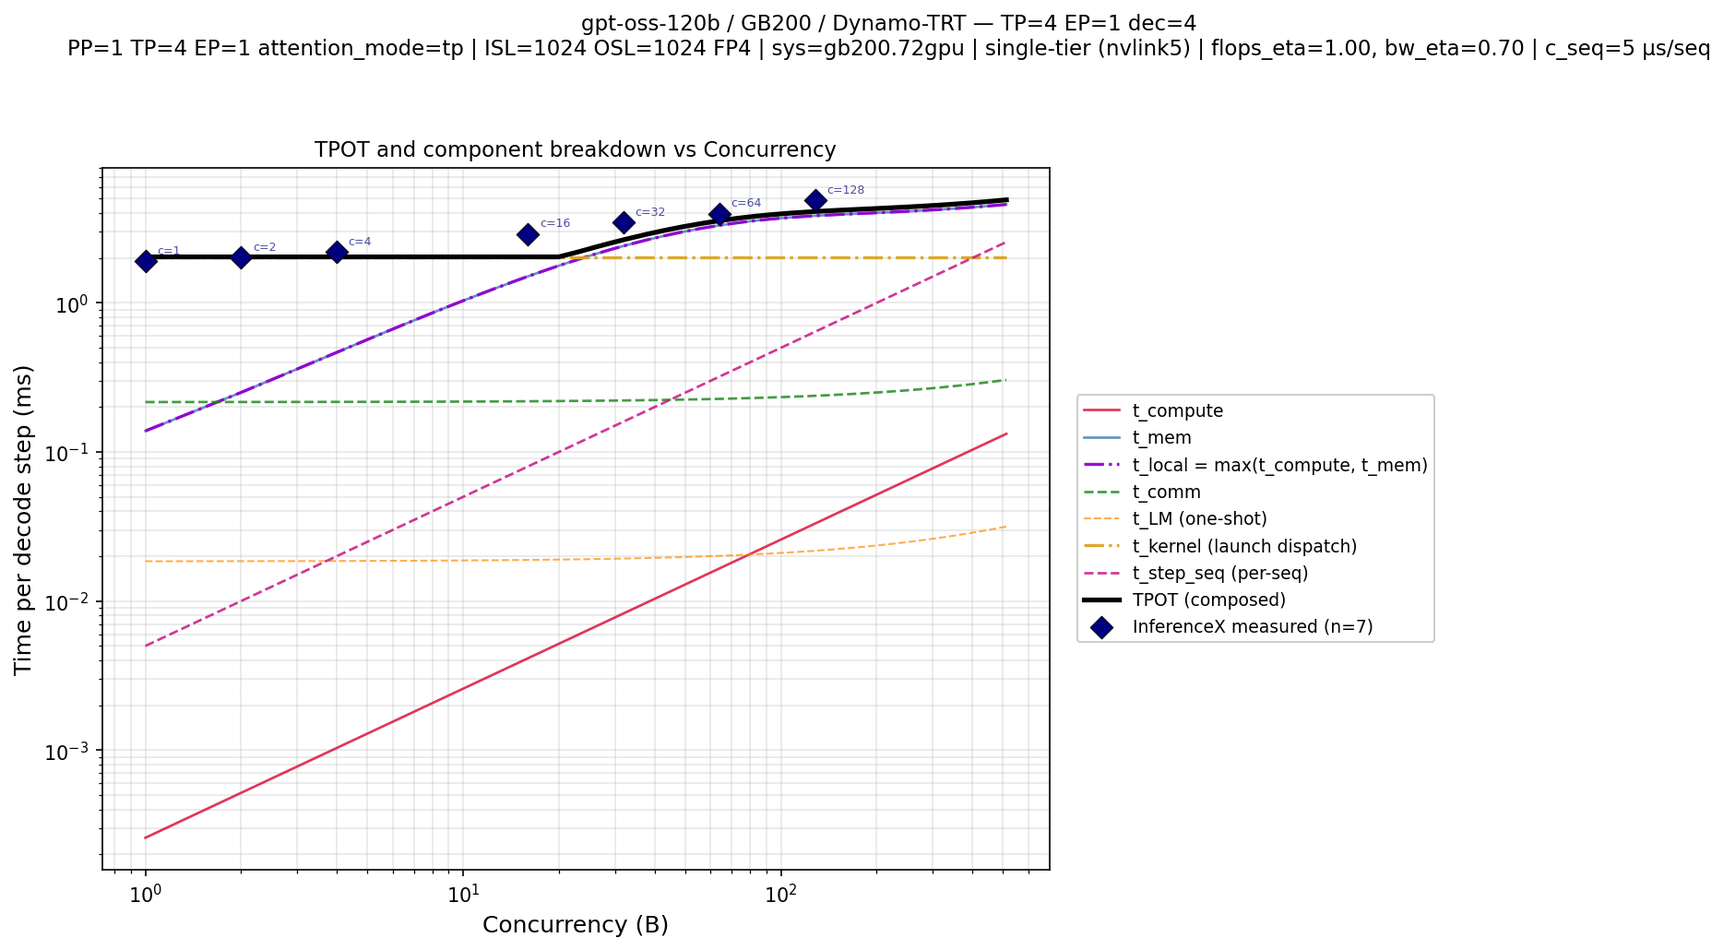
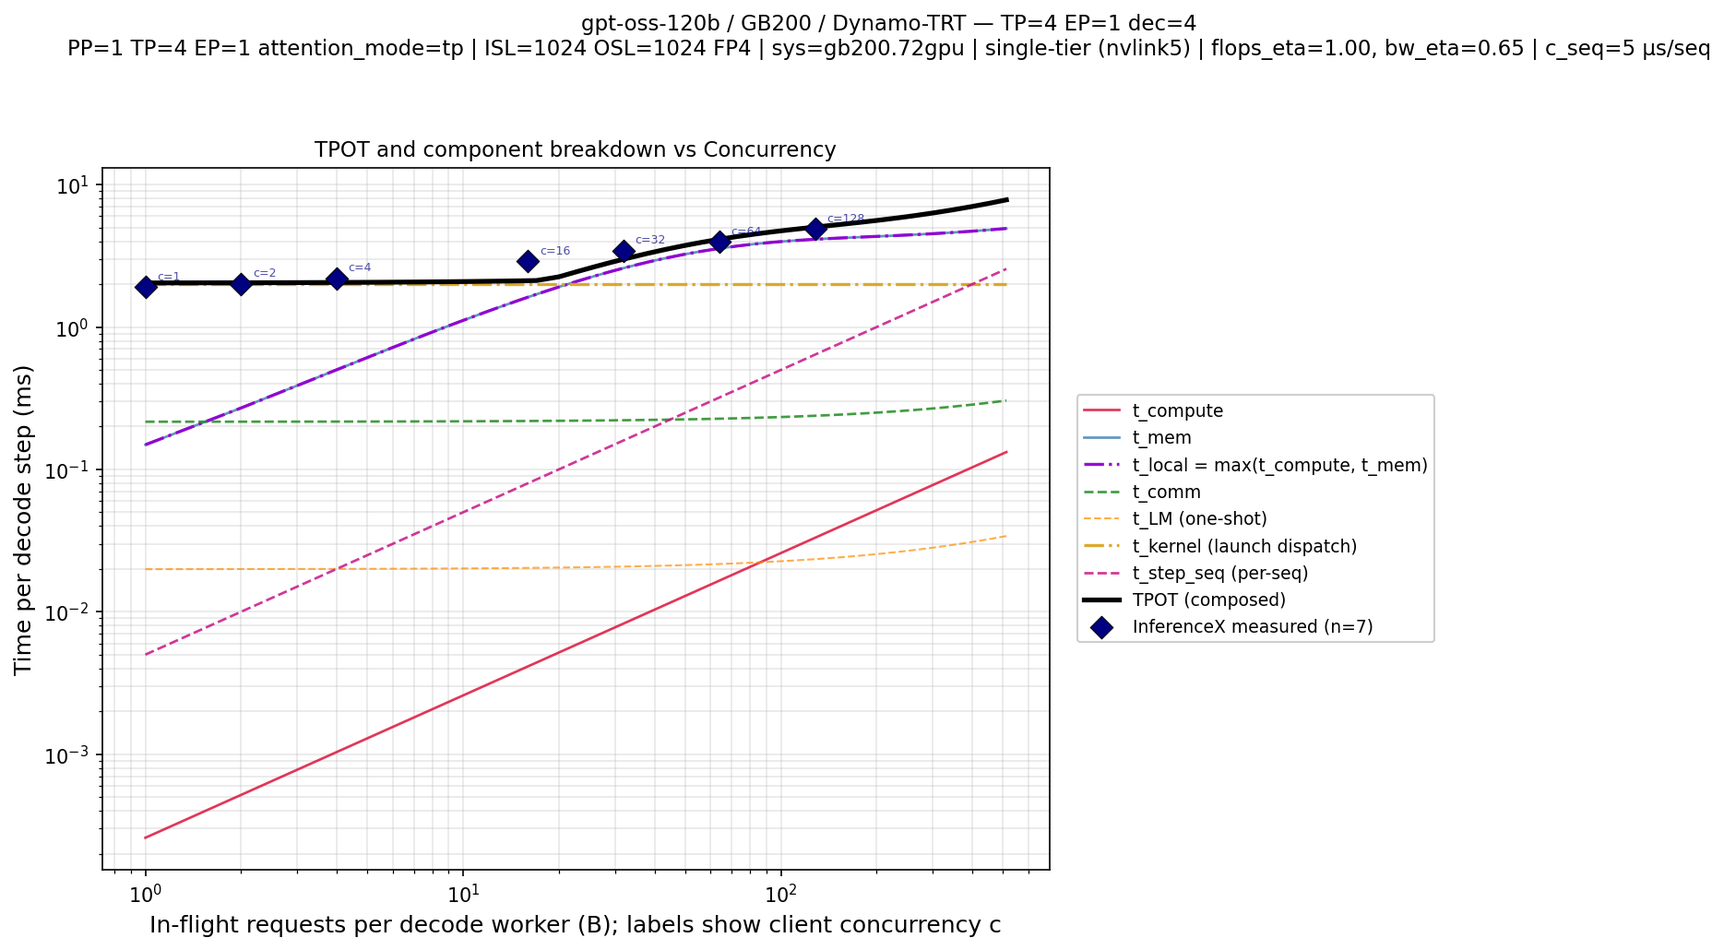
fix(validate): use the per-worker batch; fit an additive host floor instead of drifting bw_eta
Batch. The harness fed the measured client concurrency straight into the
model as the batch of one replica. A cut with several decode workers
(the DeepSeek-R1 co-located cut runs four) therefore ran at four times
its real batch. load_measured now divides conc by decode_num_workers and
keeps both.

Host cost. Fitted per TP shape, bw_eta fell steadily as TP grew. The
cause is host-side work that does not shrink with TP: with the default
full overlap it is hidden behind the GPU step whenever the step is long,
so the bandwidth knob absorbed it. With host work additive
(seq_overlap_factor = 0) and a per-step floor c_orch, one bandwidth
value fits every TP shape. run_framework / predict_at / the common CLI
gain c_orch_us.

Published drivers, recalibrated: gpt-oss-120b 13.6% -> 9.0% (bw_eta
0.65, no floor); DeepSeek-R1 co-located 8.7% over 14 points (bw_eta
0.75, 2.5 ms floor) where the old constants give 29% once the batch is
right; the driver's eight DeepSeek-R1 cuts together 33.8% -> 15.1% with
no per-cut refit. Plots regenerated; the x-axis is now in-flight
requests per decode worker.

diff --git a/benchmark/validate/dsr1_gb200_dynamo_trt.py b/benchmark/validate/dsr1_gb200_dynamo_trt.py
@@ -70,7 +70,7 @@ CO_LOCATED_WORKLOADS = [(1024, 1024), (8192, 1024)]
 # the bulk of the improvement: Dynamo+TRT absorbs per-seq host work into
 # the CUDA-graph launch, so the framework's per-seq overhead term
 # over-counts at large B (the offending TP=EP=16,32 cells run at B≥4000).
-DEFAULT_BW_ETA = 0.7143
+DEFAULT_BW_ETA = 0.75
 # 5 µs/seq — stack-realistic floor for Dynamo+TRT under CUDA-Graph replay.
 # Below the panel break-even at every measured operating point: at B=4300
 # (largest panel-(c) measured) c_seq·B = 21.5 ms < t_step_base ~25 ms,
@@ -92,6 +92,15 @@ DEFAULT_C_SEQ_US = 5.0
 # Same value used for Dynamo+SGLang (the orchestrator behavior dominates
 # the underlying runtime distinction).
 DEFAULT_KERNEL_LAUNCH_US = 4.0
+# Host-side composition (recalibrated 2026-11 with the per-worker batch):
+#   - seq_overlap_factor = 0: host work adds to the GPU step instead of hiding
+#     behind it. With full overlap the fitted bw_eta has to absorb the host
+#     cost, and then drifts from cut to cut.
+#   - c_orch: per-step floor that does not depend on batch, fitted per cut
+#     alongside bw_eta. c_seq and kernel_launch_us stay shared by every
+#     Dynamo+TRT cut.
+DEFAULT_C_ORCH_US = 2500.0
+DEFAULT_SEQ_OVERLAP = 0.0
 DEFAULT_MOE_A2A_PATTERN = "scatter"
 
 
@@ -116,7 +125,8 @@ def run_exact(args) -> tuple[list[tuple], int]:
         num_devices=bucket[2], S_decode=ISL + OSL // 2,
         B_sweep=log_spaced_B(2048),
         flops_eta=args.flops_eta, bw_eta=args.bw_eta,
-        c_seq_us=args.c_seq_us,
+        c_seq_us=args.c_seq_us, c_orch_us=args.c_orch_us,
+        seq_overlap_factor=DEFAULT_SEQ_OVERLAP,
         moe_a2a_pattern=DEFAULT_MOE_A2A_PATTERN,
         kernel_launch_us=DEFAULT_KERNEL_LAUNCH_US,
         bytes_per_param=0.5,
@@ -130,7 +140,8 @@ def run_exact(args) -> tuple[list[tuple], int]:
             attention_mode="tp", tp_ep_layout="orthogonal",
             num_devices=bucket[2], S_decode=ISL + OSL // 2, B=m.B,
             flops_eta=args.flops_eta, bw_eta=args.bw_eta,
-            c_seq_us=args.c_seq_us,
+            c_seq_us=args.c_seq_us, c_orch_us=args.c_orch_us,
+        seq_overlap_factor=DEFAULT_SEQ_OVERLAP,
             moe_a2a_pattern=DEFAULT_MOE_A2A_PATTERN,
             kernel_launch_us=DEFAULT_KERNEL_LAUNCH_US,
             bytes_per_param=0.5,
@@ -142,7 +153,7 @@ def run_exact(args) -> tuple[list[tuple], int]:
         framework=framework, measured=measured,
         title=f"DSR1 / GB200 / Dynamo-TRT — EXACT bucket: TP={bucket[0]} EP=1 dec={bucket[2]}",
         subtitle=f"PP=1 TP={bucket[0]} EP=1 attention_mode=tp | ISL={ISL} OSL={OSL} FP4 | "
-                 f"sys={SYSTEM} | {topology_tag(SYSTEM)} | {eta_subtitle(args.flops_eta, args.bw_eta, args.c_seq_us)}",
+                 f"sys={SYSTEM} | {topology_tag(SYSTEM)} | {eta_subtitle(args.flops_eta, args.bw_eta, args.c_seq_us, args.c_orch_us)}",
         out_path=out,
     )
     print(f"  saved: {out.relative_to(args.out_dir.parent.parent)}")
@@ -166,7 +177,8 @@ def _run_colocated_workload(args, tp_ep: int, isl: int, osl: int):
         num_devices=tp_ep, S_decode=S_decode,
         B_sweep=log_spaced_B(8192),
         flops_eta=args.flops_eta, bw_eta=args.bw_eta,
-        c_seq_us=args.c_seq_us,
+        c_seq_us=args.c_seq_us, c_orch_us=args.c_orch_us,
+        seq_overlap_factor=DEFAULT_SEQ_OVERLAP,
         moe_a2a_pattern=DEFAULT_MOE_A2A_PATTERN,
         kernel_launch_us=DEFAULT_KERNEL_LAUNCH_US,
         bytes_per_param=0.5,
@@ -179,7 +191,8 @@ def _run_colocated_workload(args, tp_ep: int, isl: int, osl: int):
             attention_mode="dp", tp_ep_layout="co_located",
             num_devices=tp_ep, S_decode=S_decode, B=m.B,
             flops_eta=args.flops_eta, bw_eta=args.bw_eta,
-            c_seq_us=args.c_seq_us,
+            c_seq_us=args.c_seq_us, c_orch_us=args.c_orch_us,
+        seq_overlap_factor=DEFAULT_SEQ_OVERLAP,
             moe_a2a_pattern=DEFAULT_MOE_A2A_PATTERN,
             kernel_launch_us=DEFAULT_KERNEL_LAUNCH_US,
             bytes_per_param=0.5,
@@ -218,7 +231,7 @@ def run_colocated(args) -> tuple[list[tuple], int]:
             framework=fw_prim, measured=meas_prim,
             title=f"DSR1 / GB200 / Dynamo-TRT — CO-LOCATED TP=EP={tp_ep} on {tp_ep}-GPU replica",
             subtitle=f"tp_ep_layout=co_located attention_mode=dp PP=1 TP={tp_ep} EP={tp_ep} SP=1 | "
-                     f"{prim_lbl} + {sec_lbl} FP4 | sys={SYSTEM} | {topology_tag(SYSTEM)} | {eta_subtitle(args.flops_eta, args.bw_eta, args.c_seq_us)}",
+                     f"{prim_lbl} + {sec_lbl} FP4 | sys={SYSTEM} | {topology_tag(SYSTEM)} | {eta_subtitle(args.flops_eta, args.bw_eta, args.c_seq_us, args.c_orch_us)}",
             out_path=out,
             primary_label=prim_lbl,
             secondary=(sec_lbl, fw_sec, meas_sec),
@@ -257,7 +270,8 @@ def run_colo_tp_attn(args) -> tuple[list[tuple], int]:
         num_devices=32, S_decode=ISL + OSL // 2,
         B_sweep=log_spaced_B(2048),
         flops_eta=args.flops_eta, bw_eta=args.bw_eta,
-        c_seq_us=args.c_seq_us,
+        c_seq_us=args.c_seq_us, c_orch_us=args.c_orch_us,
+        seq_overlap_factor=DEFAULT_SEQ_OVERLAP,
         moe_a2a_pattern=DEFAULT_MOE_A2A_PATTERN,
         kernel_launch_us=DEFAULT_KERNEL_LAUNCH_US,
         bytes_per_param=0.5,
@@ -269,7 +283,8 @@ def run_colo_tp_attn(args) -> tuple[list[tuple], int]:
             attention_mode="tp", tp_ep_layout="co_located",
             num_devices=32, S_decode=ISL + OSL // 2, B=m.B,
             flops_eta=args.flops_eta, bw_eta=args.bw_eta,
-            c_seq_us=args.c_seq_us,
+            c_seq_us=args.c_seq_us, c_orch_us=args.c_orch_us,
+        seq_overlap_factor=DEFAULT_SEQ_OVERLAP,
             moe_a2a_pattern=DEFAULT_MOE_A2A_PATTERN,
             kernel_launch_us=DEFAULT_KERNEL_LAUNCH_US,
             bytes_per_param=0.5,
@@ -282,7 +297,7 @@ def run_colo_tp_attn(args) -> tuple[list[tuple], int]:
         title="DSR1 / GB200 / Dynamo-TRT — CO-LOCATED TP-attn TP=EP=8 dec=32 (4 replicas)",
         subtitle=f"PP=1 TP=EP=8 attention_mode=tp tp_ep_layout=co_located | "
                  f"ISL={ISL} OSL={OSL} FP4 | "
-                 f"sys={SYSTEM} | {topology_tag(SYSTEM)} | {eta_subtitle(args.flops_eta, args.bw_eta, args.c_seq_us)}",
+                 f"sys={SYSTEM} | {topology_tag(SYSTEM)} | {eta_subtitle(args.flops_eta, args.bw_eta, args.c_seq_us, args.c_orch_us)}",
         out_path=out,
     )
     print(f"  saved: {out.relative_to(args.out_dir.parent.parent)}")
@@ -292,7 +307,8 @@ def run_colo_tp_attn(args) -> tuple[list[tuple], int]:
 def main() -> int:
     ap = argparse.ArgumentParser(description=__doc__.strip().splitlines()[0])
     ap.add_argument("--cut", choices=["exact", "colocated", "colo_tp_attn", "all"], default="all")
-    add_common_cli(ap, default_bw_eta=DEFAULT_BW_ETA, default_c_seq_us=DEFAULT_C_SEQ_US)
+    add_common_cli(ap, default_bw_eta=DEFAULT_BW_ETA, default_c_seq_us=DEFAULT_C_SEQ_US,
+                   default_c_orch_us=DEFAULT_C_ORCH_US)
     args = ap.parse_args()
 
     all_rows: list[tuple] = []

diff --git a/benchmark/validate/common.py b/benchmark/validate/common.py
@@ -54,7 +54,7 @@ DEFAULT_RESULTS_DIR = _REPO_ROOT / "benchmark" / "results"
 class MeasuredPoint:
     """One InferenceX measurement row (subset of fields used by drivers)."""
 
-    B: int                  # `conc` — steady-state in-flight requests (≈ per-step batch)
+    B: int                  # in-flight requests per decode worker: conc / decode_num_workers (≈ per-step batch of one replica)
     tpot_ms: float          # `mean_tpot` × 1000 — primary y-axis quantity
     isl: int
     osl: int
@@ -65,6 +65,8 @@ class MeasuredPoint:
     spec_method: str
     framework: str
     hardware: str
+    conc: int = 0           # `conc` — client concurrency across the whole deployment
+    num_workers: int = 1    # `decode_num_workers` — decode replicas sharing that concurrency
 
 
 def _to_bool(v: str) -> bool:
@@ -132,8 +134,16 @@ def load_measured(
                     continue
                 if not row.get("mean_tpot"):
                     continue  # drop incomplete runs
+                # `conc` is the load generator's concurrency for the whole
+                # endpoint. The model's B is the batch of ONE replica, so a
+                # deployment with several decode workers sees conc / workers
+                # each (assuming the router balances them).
+                conc = int(row["conc"])
+                workers = max(1, int(float(row.get("decode_num_workers") or 1)))
                 out.append(MeasuredPoint(
-                    B=int(row["conc"]),
+                    B=max(1, round(conc / workers)),
+                    conc=conc,
+                    num_workers=workers,
                     tpot_ms=float(row["mean_tpot"]) * 1000.0,
                     isl=int(row["isl"]),
                     osl=int(row["osl"]),
@@ -282,6 +292,7 @@ def run_framework(
     flops_eta: float = 1.0,
     bw_eta: float = 1.0,
     c_seq_us: float = 0.0,
+    c_orch_us: float = 0.0,
     moe_a2a_pattern: str = "gather",
     kernel_launch_us: float | None = None,
     bytes_per_param: float | None = None,
@@ -316,6 +327,7 @@ def run_framework(
         attention_mode=attention_mode,
         tp_ep_layout=tp_ep_layout,
         c_seq_us=c_seq_us,
+        c_orch_us=c_orch_us,
         moe_a2a_pattern=moe_a2a_pattern,
         # InferenceX measurements were not captured with SHARP-class INC
         # engaged; opt out explicitly so the cost model picks SW even when
@@ -390,6 +402,7 @@ def predict_at(
     flops_eta: float = 1.0,
     bw_eta: float = 1.0,
     c_seq_us: float = 0.0,
+    c_orch_us: float = 0.0,
     moe_a2a_pattern: str = "gather",
     kernel_launch_us: float | None = None,
     bytes_per_param: float | None = None,
@@ -405,6 +418,7 @@ def predict_at(
         num_devices=num_devices, S_decode=S_decode,
         B_sweep=[B],
         flops_eta=flops_eta, bw_eta=bw_eta, c_seq_us=c_seq_us,
+        c_orch_us=c_orch_us,
         moe_a2a_pattern=moe_a2a_pattern,
         kernel_launch_us=kernel_launch_us,
         bytes_per_param=bytes_per_param,
@@ -535,7 +549,7 @@ def plot_tpot_vs_B(
                    c="navy", marker="D", s=70*(l_scale**2), edgecolors="black", linewidths=0.5*l_scale,
                    zorder=10, label=prim_label)
         for m in measured:
-            ax.annotate(f"c={m.B}", (m.B, m.tpot_ms),
+            ax.annotate(f"c={m.conc}", (m.B, m.tpot_ms),
                         textcoords="offset points", xytext=(6, 4),
                         fontsize=6*f_scale, color="navy", alpha=0.7)
 
@@ -565,11 +579,11 @@ def plot_tpot_vs_B(
                            linewidths=0.5*l_scale, zorder=10,
                            label=f"InferenceX measured {sec_label} (n={len(sec_meas)})")
                 for m in sec_meas:
-                    ax.annotate(f"c={m.B}", (m.B, m.tpot_ms),
+                    ax.annotate(f"c={m.conc}", (m.B, m.tpot_ms),
                                 textcoords="offset points", xytext=dxy,
                                 fontsize=6*f_scale, color=color, alpha=0.7)
 
-    ax.set_xlabel("Concurrency (B)", fontsize=12*f_scale)
+    ax.set_xlabel("In-flight requests per decode worker (B); labels show client concurrency c", fontsize=12*f_scale)
     ax.set_ylabel("Time per decode step (ms)", fontsize=12*f_scale)
     ax.tick_params(axis="both", labelsize=10*f_scale)
     ax.set_xscale("log")
@@ -603,6 +617,7 @@ def add_common_cli(
     default_flops_eta: float = 1.0,
     default_bw_eta: float = 1.0,
     default_c_seq_us: float = 0.0,
+    default_c_orch_us: float = 0.0,
 ) -> None:
     """Register the standard CLI args every driver should support.
 
@@ -627,6 +642,9 @@ def add_common_cli(
     ap.add_argument("--c-seq-us", type=float, default=default_c_seq_us,
                     help=f"Per-sequence serving runtime overhead c_seq (µs/seq). "
                          f"Driver default: {default_c_seq_us}.")
+    ap.add_argument("--c-orch-us", type=float, default=default_c_orch_us,
+                    help=f"Per-step host floor c_orch (µs/step), independent of batch. "
+                         f"Driver default: {default_c_orch_us}.")
     ap.add_argument("--out-dir", type=Path, default=DEFAULT_RESULTS_DIR,
                     help="Where to write plots (default: benchmark/results/).")
     ap.add_argument("--check", type=float, default=None, metavar="MAE_PCT",
@@ -634,12 +652,14 @@ def add_common_cli(
                          "Use for CI smoke tests.")
 
 
-def eta_subtitle(flops_eta: float, bw_eta: float, c_seq_us: float) -> str:
+def eta_subtitle(flops_eta: float, bw_eta: float, c_seq_us: float, c_orch_us: float = 0.0) -> str:
     bits = []
     bits.append("peak FLOPs+BW" if (flops_eta == 1.0 and bw_eta == 1.0)
                 else f"flops_eta={flops_eta:.2f}, bw_eta={bw_eta:.2f}")
     bits.append(f"c_seq={c_seq_us:.0f} µs/seq" if c_seq_us > 0
                 else "c_seq=0 (off)")
+    if c_orch_us > 0:
+        bits.append(f"c_orch={c_orch_us / 1000:.1f} ms/step")
     return " | ".join(bits)
 
 

diff --git a/benchmark/validate/gpt_oss_120b_gb200_dynamo_trt.py b/benchmark/validate/gpt_oss_120b_gb200_dynamo_trt.py
@@ -37,7 +37,7 @@ TP, EP, NUM = 4, 1, 4
 # faster than measured). Resolving this likely requires a fixed per-step
 # overhead term or precision-aware kernel-launch budget; documented as a
 # §5 Limitation.
-DEFAULT_BW_ETA = 0.7
+DEFAULT_BW_ETA = 0.65
 # 5 µs/seq — Dynamo+TRT stack default (matches dynamo_trt.json and the
 # DSr1 Dynamo+TRT validator). At panel-(a) max B=128, c_seq·B = 0.64 ms
 # vs t_step_base ~5-10 ms → fully hidden by the overlap gate (ρ_seq=1),
@@ -52,11 +52,21 @@ DEFAULT_C_SEQ_US = 5.0
 # under-count. Lifts panel-(a) small-B prediction (B=1..4) from
 # ~0.8 ms to ~1.8 ms, matching measured ~1.9 ms.
 DEFAULT_KERNEL_LAUNCH_US = 4.0
+# Host-side composition (recalibrated 2026-11 with the per-worker batch):
+#   - seq_overlap_factor = 0: host work adds to the GPU step instead of hiding
+#     behind it. With full overlap the fitted bw_eta has to absorb the host
+#     cost, and then drifts from cut to cut.
+#   - c_orch: per-step floor that does not depend on batch, fitted per cut
+#     alongside bw_eta. c_seq and kernel_launch_us stay shared by every
+#     Dynamo+TRT cut.
+DEFAULT_C_ORCH_US = 0.0
+DEFAULT_SEQ_OVERLAP = 0.0
 
 
 def main() -> int:
     ap = argparse.ArgumentParser(description=__doc__.strip().splitlines()[0])
-    add_common_cli(ap, default_bw_eta=DEFAULT_BW_ETA, default_c_seq_us=DEFAULT_C_SEQ_US)
+    add_common_cli(ap, default_bw_eta=DEFAULT_BW_ETA, default_c_seq_us=DEFAULT_C_SEQ_US,
+                   default_c_orch_us=DEFAULT_C_ORCH_US)
     args = ap.parse_args()
 
     measured = load_measured(
@@ -78,7 +88,8 @@ def main() -> int:
         num_devices=NUM, S_decode=ISL + OSL // 2,
         B_sweep=log_spaced_B(512),
         flops_eta=args.flops_eta, bw_eta=args.bw_eta,
-        c_seq_us=args.c_seq_us,
+        c_seq_us=args.c_seq_us, c_orch_us=args.c_orch_us,
+        seq_overlap_factor=DEFAULT_SEQ_OVERLAP,
         kernel_launch_us=DEFAULT_KERNEL_LAUNCH_US,
     )
     rows = []
@@ -89,7 +100,8 @@ def main() -> int:
             attention_mode="tp", tp_ep_layout="orthogonal",
             num_devices=NUM, S_decode=ISL + OSL // 2, B=m.B,
             flops_eta=args.flops_eta, bw_eta=args.bw_eta,
-            c_seq_us=args.c_seq_us,
+            c_seq_us=args.c_seq_us, c_orch_us=args.c_orch_us,
+        seq_overlap_factor=DEFAULT_SEQ_OVERLAP,
             kernel_launch_us=DEFAULT_KERNEL_LAUNCH_US,
         )
         rows.append((f"TP={TP} EP={EP}", m.B, m.tpot_ms, pred))
@@ -99,7 +111,7 @@ def main() -> int:
         framework=framework, measured=measured,
         title=f"gpt-oss-120b / GB200 / Dynamo-TRT — TP={TP} EP={EP} dec={NUM}",
         subtitle=f"PP=1 TP={TP} EP={EP} attention_mode=tp | ISL={ISL} OSL={OSL} FP4 | "
-                 f"sys={SYSTEM} | {topology_tag(SYSTEM)} | {eta_subtitle(args.flops_eta, args.bw_eta, args.c_seq_us)}",
+                 f"sys={SYSTEM} | {topology_tag(SYSTEM)} | {eta_subtitle(args.flops_eta, args.bw_eta, args.c_seq_us, args.c_orch_us)}",
         out_path=out,
     )
     print(f"  saved: {out.relative_to(args.out_dir.parent.parent)}\n")

diff --git a/benchmark/validate/README.md b/benchmark/validate/README.md
@@ -10,10 +10,10 @@ The published set is the two per-cut drivers the root README walks through.
 
 | Driver | Model spec | System | Framework | Cuts |
 |---|---|---|---|---|
-| `gpt_oss_120b_gb200_dynamo_trt.py` | `gpt_oss_120b` | `gb200.72gpu` | dynamo-trt | TP=4 EP=1 dec=4 — mean absolute error (MAE) 13.6% over 7 points |
-| `dsr1_gb200_dynamo_trt.py` | `deepseek_r1_0528` | `gb200.72gpu` | dynamo-trt | EXACT (TP=36 EP=1), CO-LOCATED (TP=EP={8,16,32}), ORTHO (TP=8 EP=8 dec=32) — 19.6% MAE over 14 points on the co-located TP-attention cut |
+| `gpt_oss_120b_gb200_dynamo_trt.py` | `gpt_oss_120b` | `gb200.72gpu` | dynamo-trt | TP=4 EP=1 dec=4 — mean absolute error (MAE) 9.0% over 7 points |
+| `dsr1_gb200_dynamo_trt.py` | `deepseek_r1_0528` | `gb200.72gpu` | dynamo-trt | EXACT (TP=36 EP=1), CO-LOCATED (TP=EP={8,16,32}), ORTHO (TP=8 EP=8 dec=32) — 8.7% MAE over 14 points on the co-located TP-attention cut |
 
-Both are calibrated: `bw_eta` is fitted per (model, hardware, framework) cell, while `c_seq` and the per-kernel launch time come from the framework spec and are shared by every cut on that serving stack. Everything else is first-principles. `bw_eta` multiplies on top of the `hbm_eta_beta` the system spec already carries (0.7 on GB200), so the default 0.7 means 0.49× nameplate HBM bandwidth; it is a fitted residual, not a measured hardware constant. Accuracy on an *uncalibrated* cell is materially worse — the dominant residual is a consistent under-prediction that grows with batch size, which is the not-yet-calibrated per-step host floor rather than a failure of the roofline itself.
+Both are calibrated: `bw_eta` and the per-step host floor `c_orch` are fitted per (model, hardware, framework) cell, while `c_seq`, the per-kernel launch time and the additive host composition (`seq_overlap_factor = 0`) are shared by every cut on that serving stack. The measured `conc` is the client concurrency of the whole endpoint, so `load_measured` divides it by `decode_num_workers` to get the per-replica batch the model works in. Everything else is first-principles. `bw_eta` multiplies on top of the `hbm_eta_beta` the system spec already carries (0.7 on GB200), so the default 0.7 means 0.49× nameplate HBM bandwidth; it is a fitted residual, not a measured hardware constant. Accuracy on an *uncalibrated* cell is materially worse — the dominant residual is a consistent under-prediction that grows with batch size, which is the not-yet-calibrated per-step host floor rather than a failure of the roofline itself.
 
 ## Running
 
@@ -42,21 +42,23 @@ python benchmark/validate/dsr1_gb200_dynamo_trt.py --out-dir /tmp/plots
 | `--flops-eta` | per-driver | Multiply `device.peak_flops_TF` by this factor (sustained / nameplate) |
 | `--bw-eta` | per-driver | Multiply every memory tier's `bandwidth_GBps` by this factor, on top of the tier's own `eta_beta` from the system spec |
 | `--c-seq-us` | per-driver | Per-sequence serving runtime overhead, µs/seq (decode.md §7.2) |
+| `--c-orch-us` | per-driver | Per-step host floor, µs/step, independent of batch |
 | `--out-dir` | `benchmark/results/` | Where to write plots |
 | `--check MAE_PCT` | None | If set, exit non-zero when overall MAE exceeds this |
 
-The three calibration knobs (`--flops-eta`, `--bw-eta`, `--c-seq-us`) default to **per-driver** values — each script ships with `DEFAULT_BW_ETA` / `DEFAULT_C_SEQ_US` constants tuned to its specific (model, hardware, framework) cut so out-of-box runs land within reasonable MAE without users having to know the magic numbers. Override on the command line for sweeps; `--bw-eta 1.0 --c-seq-us 0` reverts to the system spec's own roofline (its `hbm_eta_beta` still applies).
+The four calibration knobs (`--flops-eta`, `--bw-eta`, `--c-seq-us`, `--c-orch-us`) default to **per-driver** values — each script ships with `DEFAULT_BW_ETA` / `DEFAULT_C_SEQ_US` / `DEFAULT_C_ORCH_US` constants tuned to its specific (model, hardware, framework) cut so out-of-box runs land within reasonable MAE without users having to know the magic numbers. Override on the command line for sweeps; `--bw-eta 1.0 --c-seq-us 0` reverts to the system spec's own roofline (its `hbm_eta_beta` still applies).
 
 Each driver may also expose its own filters (`--cut`, `--tp`, etc.) — see `--help`.
 
 ## How the per-driver defaults are structured
 
-The two calibration knobs sit on different axes:
+The calibration knobs sit on different axes:
 
 | Knob | Primary axis | Why |
 |---|---|---|
 | `c_seq` | **framework** (Dynamo+TRT, raw TRT, dynamo+sglang, vllm, …) | Host-side per-sequence work — block-table gather, sampling glue, scheduler — runs on the CPU between forward passes. The dominant variable is the serving stack (Python heaviness, graph-replay use, fused vs Python sampling), with weak HW dependence through CPU class and PCIe. |
 | `bw_eta` | **HW × framework** | Sustained HBM BW depends on chip generation (HBM3 vs HBM3e) and on access pattern (dense GEMM vs paged-KV vs MoE expert hopping). Different frameworks are kinder or harder on the controllers. |
+| `c_orch` | **cut** (model × framework) | Per-step host floor that does not depend on batch, fitted alongside `bw_eta`. Without it, and with host work assumed to hide fully behind the GPU step, `bw_eta` absorbs the host cost and its best-fit value falls as TP grows. |
 | `flops_eta` | HW (sparse vs dense ratios), model | Less commonly needed — most miscalibration shows up on `bw_eta`. |
 
 Empirical anchors observed across the validator suite:
@@ -72,9 +74,9 @@ Empirical anchors observed across the validator suite:
 
 | Chip | `bw_eta` range observed |
 |---|---|
-| HBM3e on Blackwell (B200/GB200) | 0.7–1.0 (better with Dynamo wrapping) |
+| HBM3e on Blackwell (B200/GB200) | 0.65–1.05 once the host floor is fitted separately |
 | HBM3e on Blackwell Ultra (B300/GB300) | similar; less data |
-| HBM3 on Hopper (H100/H200) | 0.55–0.7 |
+| HBM3 on Hopper (H100/H200) | 0.55–1.05; the low end is from fits that had no separate host floor |
 | Dense models on raw TRT | as low as 0.4 |
 
 ### Re-tuning the defaults
@@ -115,5 +117,5 @@ Plots land in `benchmark/results/` (ignored, like the unpublished drivers). File
 benchmark/results/
   dsr1_dynamo_trt_exact_tp36_ep1_dec36.png
   dsr1_dynamo_trt_colocated_tp8ep8.png
-  gpt_oss_120b_dynamo_trt_tp4_ep1_dec4_flops1p00_bw0p70_serv5us.png
+  gpt_oss_120b_dynamo_trt_tp4_ep1_dec4_flops1p00_bw0p65_serv5us.png
 ```
